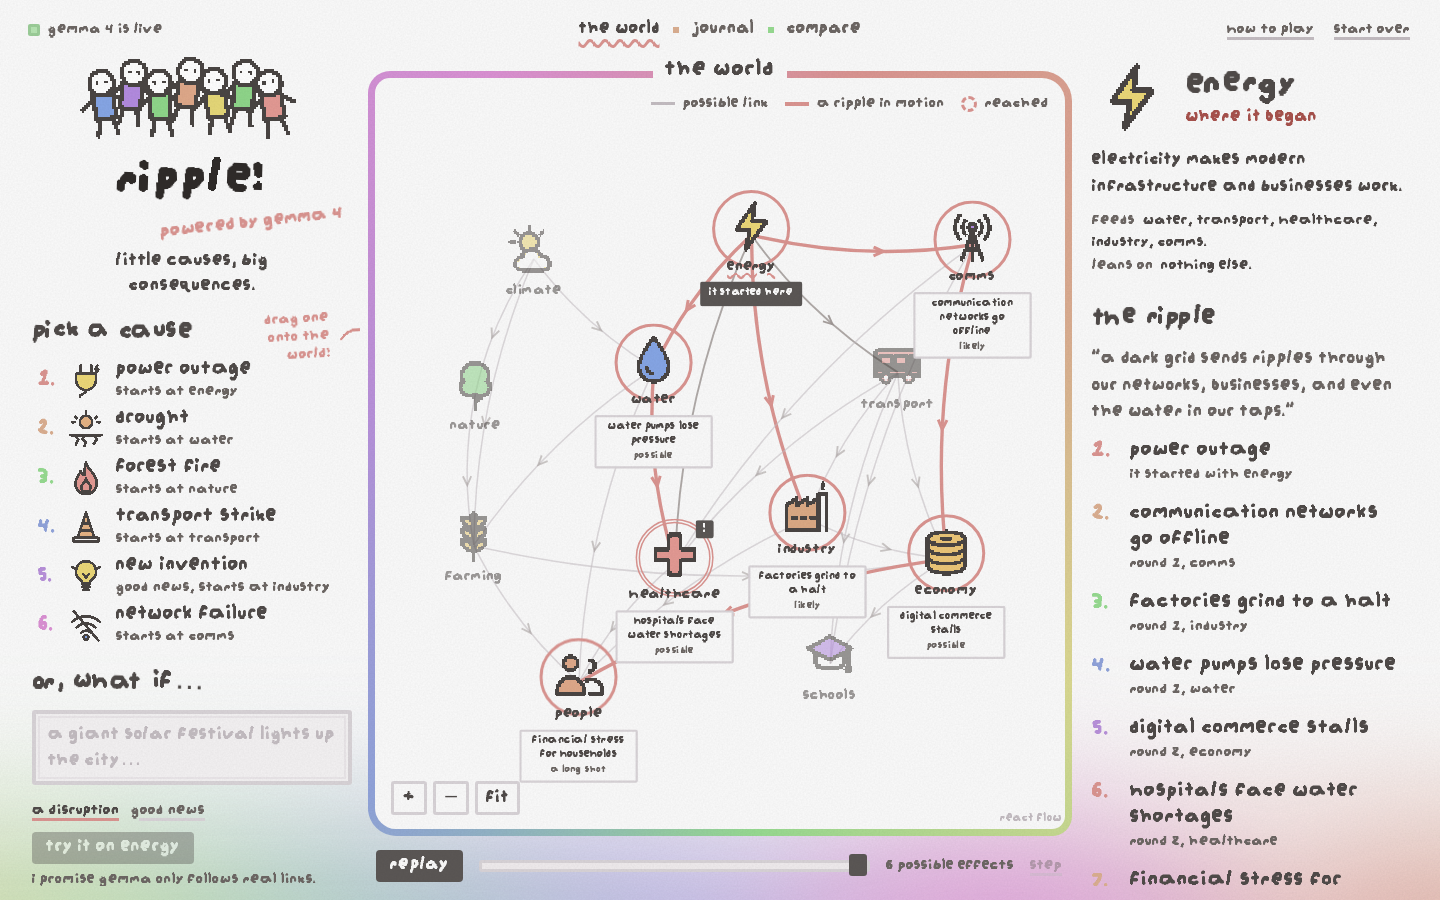
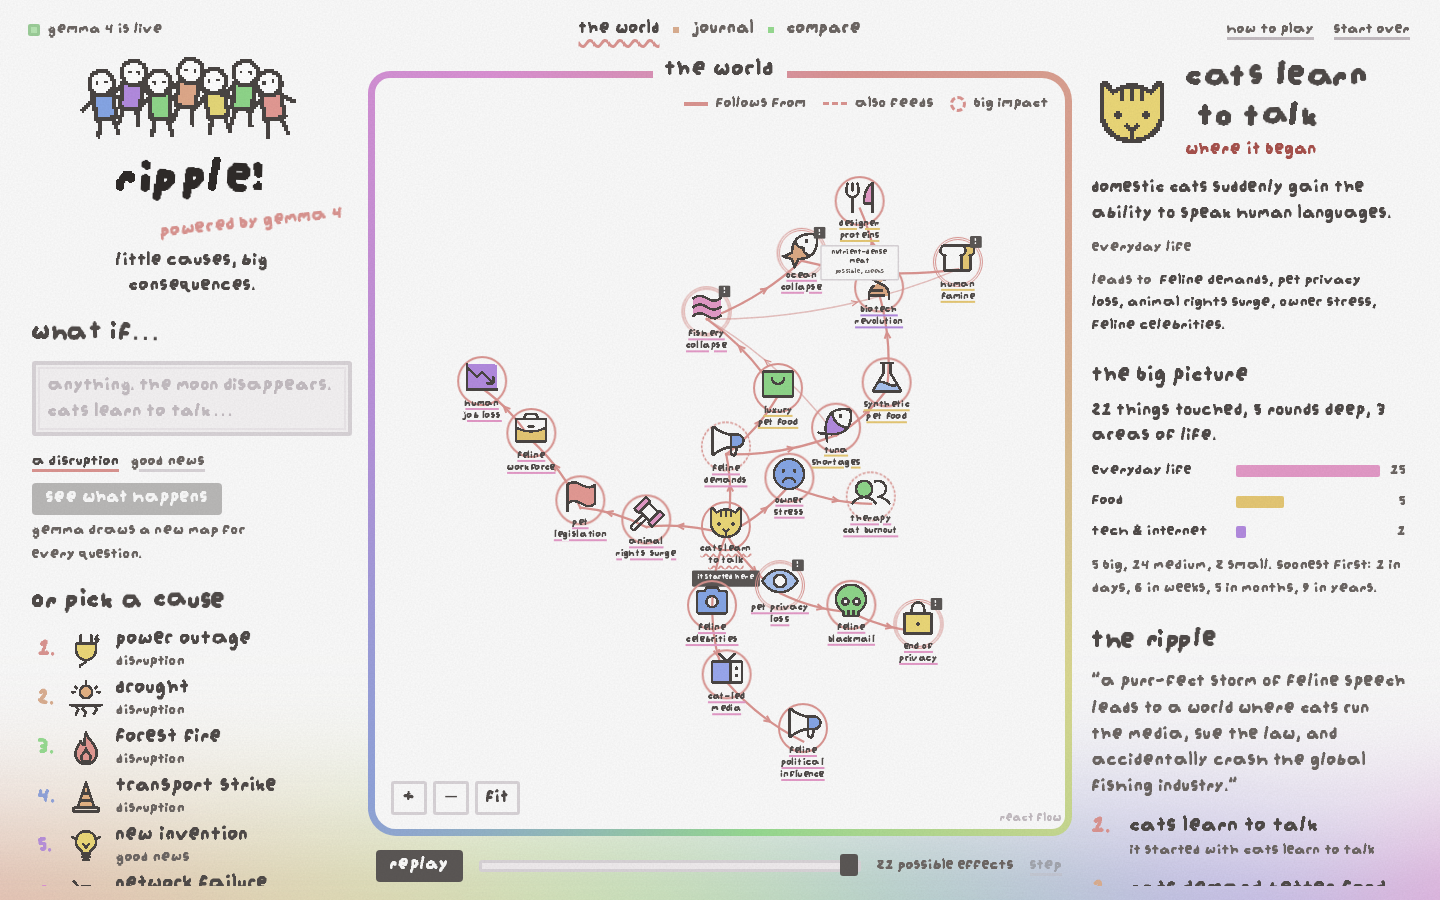
docs: describe the open-ended map and refresh screenshots
Update the README, product brief and How-to-play dialog for the open-ended
design: Gemma invents each map, the code validates structure rather than facts,
and the interface says it can be wrong. Replace screenshots with the final
interface and record that the pixel-handwriting direction supersedes the earlier
scrapbook one.

diff --git a/src/components/HelpDialog.jsx b/src/components/HelpDialog.jsx
@@ -1,6 +1,22 @@
 import { useEffect, useRef } from "react";
 import { Sprite } from "../art/Sprite.jsx";
 
+const STEPS = [
+  [
+    "ask anything",
+    "type any what-if, tap a sticker, or drag one onto the map.",
+  ],
+  [
+    "watch it spread",
+    "gemma 4 draws a brand new map: every thing the cause touches gets a picture, and the ink shows what follows from what.",
+  ],
+  [
+    "dig in",
+    "tap any node to see who feels it, how soon, and how sure gemma is. the big picture adds it all up.",
+  ],
+  ["compare", "pin one, start over, and ask something different."],
+];
+
 export function HelpDialog({ open, onClose }) {
   const ref = useRef(null);
   useEffect(() => {
@@ -22,35 +38,16 @@ export function HelpDialog({ open, onClose }) {
       <Sprite id="butterfly" scale={2} />
       <h2 id="help-title">one tiny change, a whole new story.</h2>
       <ol className="steps">
-        <li>
-          <span className="step-title">drop a cause</span>
-          <span className="step-meta">
-            drag a sticker onto a thing, or tap the sticker and then the thing.
-          </span>
-        </li>
-        <li>
-          <span className="step-title">watch it spread</span>
-          <span className="step-meta">
-            gemma 4 follows real links on the map, up to three rounds out.
-          </span>
-        </li>
-        <li>
-          <span className="step-title">trace it back</span>
-          <span className="step-meta">
-            tap any note to see how the ripple got there. scrub or replay to
-            look closer.
-          </span>
-        </li>
-        <li>
-          <span className="step-title">compare</span>
-          <span className="step-meta">
-            pin one, start over, and try a different cause.
-          </span>
-        </li>
+        {STEPS.map(([title, text]) => (
+          <li key={title}>
+            <span className="step-title">{title}</span>
+            <span className="step-meta">{text}</span>
+          </li>
+        ))}
       </ol>
       <p className="meta">
-        every effect is a possibility, checked against the map. gemma can’t
-        invent a link that doesn’t exist.
+        every effect is a possibility, not a prediction. gemma can be wrong, so
+        treat this as a thinking toy, not a forecast.
       </p>
       <button type="button" className="pixel-button" onClick={onClose}>
         let’s get curious

diff --git a/README.md b/README.md
@@ -9,13 +9,14 @@ Built for MLH: **Best Use of Gemma 4** (Gemini API) and **Best Open-Source AI Pr
 
 ## How it works
 
-1. You pick a cause (a power outage, a drought, a new invention) or type your own what-if, and drop it on a system.
-2. The server asks Gemma 4 (`gemma-4-26b-a4b-it` by default) to follow the map's real links for up to three rounds, and streams the answer back line by line, so the ripple grows on screen while Gemma is still writing.
-3. **Every effect is checked before you see it.** The model can only use the 26 real links in `shared/world.mjs`, one round at a time, never revisiting a system (`createChainBuilder` in `shared/engine.mjs`). It cannot invent a connection. Text and enum fields are length-bounded.
-4. Anything is a *possibility*, never a prediction, and each note says how sure Gemma is. Tap a note to trace it back, hop by hop, to the cause that began it.
-5. If there is no API key or Gemma is unreachable, the app falls back to a fixed offline demo engine **and says so** in the interface.
+1. You ask any what-if: type your own ("the moon disappears", "hackers die"), pick a sticker, or tap an example.
+2. The server asks Gemma 4 (`gemma-4-26b-a4b-it` by default) to draw the ripple. Gemma invents the map for that question: a node for the cause, then up to 28 effects over 5 rounds, each with a name, an area of life, a pixel icon, who feels it, how soon, how sure it is, how big, and which earlier nodes it follows from.
+3. The answer is streamed line by line, so the map grows on screen while Gemma is still writing. The first effect shows after about 3 seconds; a big ripple takes 30 to 40.
+4. **Every line is validated before you see it** (`createRippleBuilder` in `shared/ripple.mjs`): an effect must follow from a node that already exists in an earlier round, no node appears twice, rounds do not skip, the ripple stays within its size limits, and every text field and choice (area, icon, timeframe, certainty, severity) is length-bounded or checked against a fixed list. This guarantees the map is well-formed and traceable. **It cannot check the facts**, so everything is shown as a possibility, the notes say Gemma can be wrong, and harmful requests are refused.
+5. Tap any node to see who feels it and how soon, trace how the ripple got there, or read the "big picture" of which areas of life it reached.
+6. If there is no API key or Gemma is unreachable, the server retries (and tries the larger Gemma on the last attempt), then falls back to a fixed offline demo over a small known map **and says so** in the interface.
 
-Your custom text is sent to Gemma as quoted data with instructions to ignore any commands inside it. Whatever comes back still has to pass the graph check.
+Your text is sent to Gemma as quoted data with instructions to ignore any commands inside it.
 
 ## Run it
 
@@ -32,31 +33,33 @@ The key stays on the server (`server/`) and is never sent to the browser. Withou
 ```sh
 npm run build            # production files in dist/
 npm start                # serve dist/ and the API together (PORT, default 8787)
-npm test                 # engine, scenario, Gemma client and API tests (no network)
+npm test                 # engine, ripple validator, layout, Gemma client and API tests (no network)
 npm run test:browser     # Chromium interaction tests (offline demo engine, port 5179)
 npm run sprites          # regenerate the pixel-art sprites from scripts/glyphs.js
 ```
 
 ## Project map
 
-- `shared/world.mjs`: the 12 systems, 26 directed links and six preset causes.
-- `shared/engine.mjs`: effect validation, the streaming chain builder, and the offline demo engine.
+- `shared/ripple.mjs`: the validator for open-ended ripples (structure and bounds), plus limits.
+- `shared/world.mjs`: the known baseline: 56 systems in 12 areas, 235 links, and ten preset causes.
+- `shared/engine.mjs`: the offline demo engine over the known map.
+- `shared/icons.mjs`: the 178 icons Gemma may pick for nodes it invents.
 - `shared/scenario.mjs`: replayable event snapshots and ancestry tracing.
 - `server/gemma.mjs`: prompt, streaming Gemini API client, line-by-line parsing.
-- `server/api.mjs`: `/api/ripple` (NDJSON stream) and `/api/status`; input validation, body limit, rate limit.
+- `server/api.mjs`: `/api/ripple` (NDJSON stream) and `/api/status`; input validation, body limit, rate limit, retries.
 - `server/index.mjs`: production server with security headers.
-- `src/`: the React interface (`components/`, `hooks/useRipple.js`, `styles/`).
-- `scripts/`: the sprite pipeline.
+- `src/`: the React interface (`components/`, `hooks/useRipple.js`, `lib/layout.js`, `lib/stats.js`, `styles/`).
+- `scripts/`: the sprite pipeline (renders 250+ pixel sprites from the Phosphor icon set).
 
 ## Disclosure and credits
 
 - **Existing work:** the world data (`shared/world.mjs`), the effect validator, the canned demo effects and the first engine tests come from the project's supplied master spec. Everything else in this repository was written for this project: the Gemma integration, the streaming server, the chain validation, the interface and its tests.
-- **Models and libraries:** Gemma 4 through the Gemini API (`@google/genai` is not used; the server calls the REST API directly), [React](https://react.dev/) and [React Flow](https://reactflow.dev/) (MIT), [Vite](https://vite.dev/) (MIT).
+- **Models and libraries:** Gemma 4 through the Gemini API (`@google/genai` is not used; the server calls the REST API directly), [React](https://react.dev/) and [React Flow](https://reactflow.dev/) (MIT), [Vite](https://vite.dev/) (MIT), and [Phosphor Icons](https://phosphoricons.com/) (MIT) as the source of the pixel sprites (dev dependency).
 - **Font:** [augiepixel](https://jamegam.hackclub.com/fonts/augiepixel.ttf), drawn by Augie Ruben and offered free to use for anything without credit or permission. Credit given anyway, thank you.
-- **Visual inspiration:** the look (soft pixel handwriting, doodles, salmon annotations, rainbow haze) is inspired by [jame gam by Hack Club](https://jamegam.hackclub.com/). No artwork or code from that site is used; the sprites here are generated from this repository's own vector drawings. This project is not affiliated with Hack Club.
+- **Visual inspiration:** the look (soft pixel handwriting, doodles, salmon annotations, rainbow haze) is inspired by [jame gam by Hack Club](https://jamegam.hackclub.com/). No artwork or code from that site is used; the sprites here are generated from this repository's own vector drawings and the Phosphor icon set. This project is not affiliated with Hack Club.
 - **AI-assisted development:** this project was built with Claude Code and the [Impeccable](https://github.com/pbakaus/impeccable) design skill (Apache-2.0).
 
-Ripple is a toy model of possibilities. It is not a forecasting tool.
+Ripple is a toy for thinking about possibilities. Gemma can be wrong. It is not a forecasting tool.
 
 ## License
 

diff --git a/PRODUCT.md b/PRODUCT.md
@@ -10,24 +10,24 @@ web
 Primary: hackathon judges and demo viewers (MLH, Best Open-Source AI Project and Best Use of Gemma 4) who see Ripple for the first time, live, for about two minutes. They need to understand what it is, and want to be delighted, within the first ten seconds. Secondary (inferred, unconfirmed): curious students and general visitors who open the public repository afterwards.
 
 ## Product Purpose
-Ripple is an interactive cause-and-effect playground. The user drops a small cause (a power outage, a drought, a new invention, or free text) onto a map of 12 connected real-world systems, and Gemma 4 (through the Gemini API) reasons about how the effect could spread through the connections, round by round. Success: a judge sees a ripple travel across the map, reads Gemma's plain-language reasoning for each hop, and can trace any consequence back to its origin.
+Ripple is an interactive cause-and-effect explorer. A visitor asks any what-if (a preset, or anything they can type) and Gemma 4, through the Gemini API, draws a map of how it could ripple outward: what it touches, who feels it, how soon, and how sure the model is. Success: a judge asks something we never planned for, such as "the moon disappears", and watches a believable web of consequences grow on screen, then reads and traces any part of it.
 
 ## Positioning
-The consequences are not free-form chatbot text. Every effect Gemma proposes is checked against a fixed graph of 12 systems and 26 links, so it can only follow a real connection, never skip one, and is always labelled a possibility, not a prediction. The result is an explorable, auditable model of a world rather than an answer in a chat box.
+A chat answer is a wall of text; Ripple is a map. Every question gets a brand new graph, with a picture for each node, links showing what follows from what, and a "big picture" of which areas of life it reached. Because the map is built by the model for each question rather than picked from a fixed list, it can answer anything. Because the structure is enforced in code (connected, no repeats, bounded), the map is always readable and traceable even when the model's content is imperfect.
 
 ## Operating Context
 Shown live on a laptop or projector at a hackathon booth or on a call, usually in a bright room. One session is a handful of drops. Open source (public GitHub repository with an open-source license is a competition requirement). Existing AI models and libraries are allowed as dependencies; any previous work must be disclosed.
 
 ## Capabilities and Constraints
 - Stack in place: React 19, Vite, @xyflow/react, Node server.
-- World and graph live in `shared/world.mjs` (12 systems, 26 directed links, 6 preset causes). The engine and validator live in `shared/engine.mjs`. These are canonical.
-- AI: Gemma 4 via the Gemini API (`gemma-4-26b-a4b-it` by default, `gemma-4-31b-it` selectable). The API key stays on the server only (`GEMINI_API_KEY`, never in the client bundle or the repository).
-- Gemma's output is untrusted: it is validated against the graph, bounded in length, and falls back to the deterministic demo engine if the API fails. The UI must always show honestly whether an effect came from Gemma or from the offline demo.
-- Effects are possibilities with a stated certainty and severity, never predictions of real events.
-- Custom what-if text is limited to 80 characters.
+- AI: Gemma 4 via the Gemini API (`gemma-4-26b-a4b-it` by default, with `gemma-4-31b-it` as a fallback attempt). The API key stays on the server only (`GEMINI_API_KEY`, never in the client bundle or the repository). Gemma streams one JSON line per node and the interface draws each as it arrives.
+- Gemma invents the nodes, links, areas and icons for each ripple, within fixed limits (5 rounds, 7 per round, 28 nodes). `shared/ripple.mjs` enforces the structure and bounds every field. The server cannot verify facts, so every effect is presented as a possibility and the interface says Gemma can be wrong.
+- A known baseline of 56 systems and 235 links (`shared/world.mjs`) gives preset causes a consistent look and powers the offline demo fallback, which says it is not Gemma.
+- Harmful requests are refused by Gemma and shown as a friendly message.
+- Custom what-if text is limited to 80 characters. Requests are rate limited and the request body is capped.
 
 ## Brand Commitments
-Name: "ripple!" with the tagline "little causes, big consequences." Hand-made scrapbook spirit from the user's mockup (butterfly mark, hand-lettered notes, doodled systems). The user confirmed the direction "elevated scrapbook": keep the idea, build it with real craft. Confirmed visual references: the mockup at `~/Downloads/Ripple! Whimsical Cause-and-Effect World.png`, used as the starting point, not as a layout to copy.
+Name: "ripple!" with the tagline "little causes, big consequences." The user redirected the look to the soft pixel-handwriting style of jamegam.hackclub.com (near-white page, pixel handwriting font, chunky pixel doodles with dark outlines, salmon handwritten annotations, rainbow haze, grain). Inspired by, not copied from, that site; no artwork or code is reused, and the project is not affiliated with Hack Club. The earlier "elevated scrapbook" direction is superseded.
 
 ## Evidence on Hand
 No users, metrics or testimonials exist; none may be invented. The only real content is the world and graph in `shared/world.mjs`, the engine and tests, and live Gemma output.
